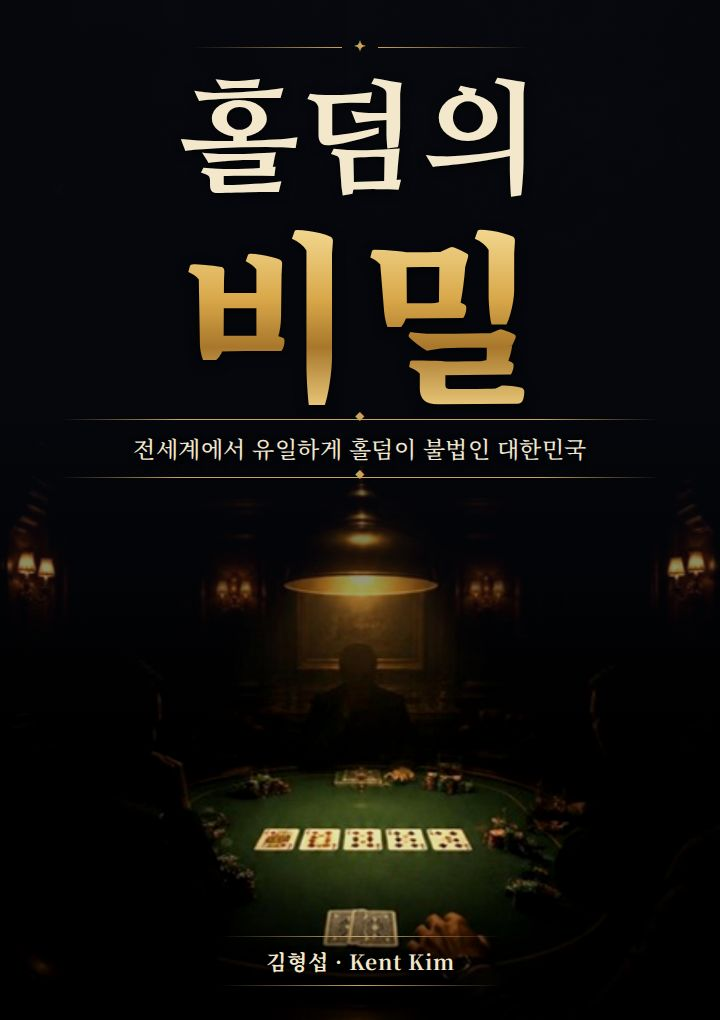
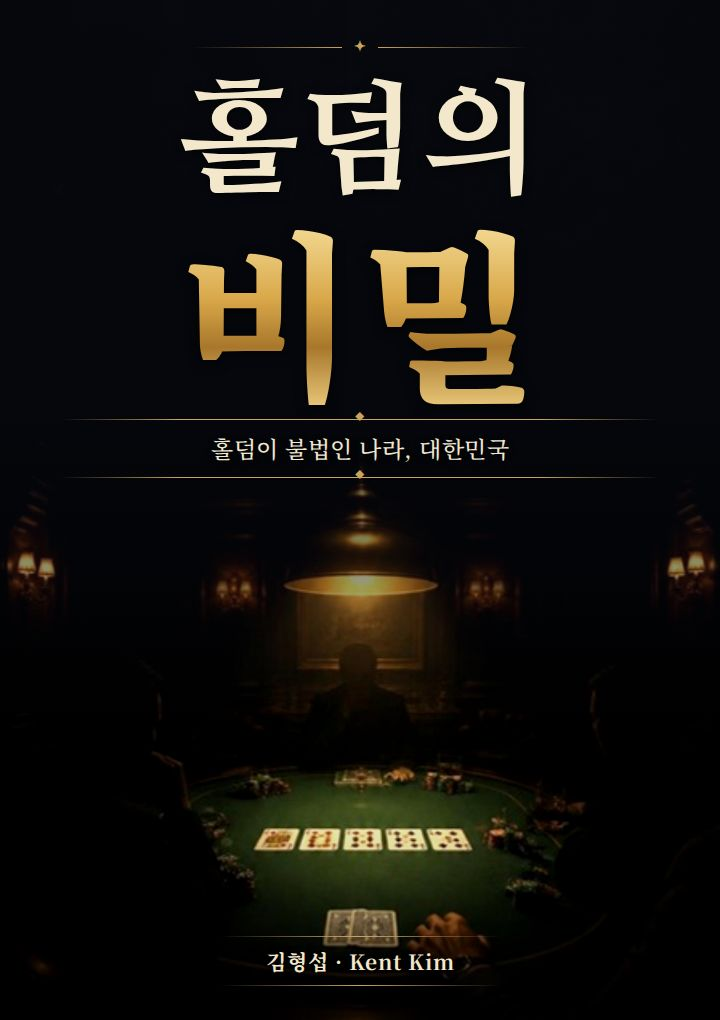
Live vote ranking and cover viewer for the secret series
Votes are stored in Supabase (kentclass schema) and the grid sorts by
popularity with TOP 1-5 badges. Tapping a cover opens a large viewer
with its own vote button. Swaps 부동산/아파트 for 온리팬스 and adds
AI로 웹 만드는 비밀; new 홀덤 subtitle.

Claude-Session: https://claude.ai/code/session_01Siq2fahSSAbSdJF6HecZzm

Changed region(s): [[0.1833, 0.4255, 0.825, 0.4559]]

diff --git a/app.js b/app.js
@@ -34,7 +34,6 @@ const SECRET_CATS = {money:"돈·투자", world:"글로벌", digital:"AI·디지
 const SECRETS = [
 {"n": 1, "cat": "money", "t": "대한민국 부자의 비밀", "img": "covers/rich.jpg", "ct": "대한민국 부자의 비밀", "sub": "부자들은 돈을 어떻게 다르게 쓰는가"},
 {"n": 2, "cat": "money", "t": "은행의 비밀", "img": "covers/bank.jpg", "ct": "대한민국 은행의 비밀", "sub": "은행의 역사와 사건으로 읽는 돈과 책임"},
-{"n": 3, "cat": "money", "t": "부동산의 비밀", "img": "covers/realestate.jpg", "ct": "부동산의 비밀", "sub": "땅과 집값을 움직이는 보이지 않는 손"},
 {"n": 5, "cat": "law", "t": "세무조사의 비밀", "img": "covers/taxaudit.jpg", "ct": "세무조사의 비밀", "sub": "조사관이 문을 두드리기 전에 알아야 할 것"},
 {"n": 6, "cat": "law", "t": "증여와 상속의 비밀", "img": "covers/inheritance.jpg", "ct": "대한민국 상속의 비밀", "sub": "재산을 남기는 선택, 가족의 미래를 바꾸다"},
 {"n": 7, "cat": "law", "t": "이혼과 재산분할의 비밀", "img": "covers/divorce.jpg", "ct": "이혼과 재산분할의 비밀", "sub": "헤어질 때 재산은 어떻게 나뉘는가"},
@@ -60,7 +59,6 @@ const SECRETS = [
 {"n": 30, "cat": "money", "t": "공매도의 비밀", "img": "covers/shortselling.jpg", "ct": "공매도의 비밀", "sub": "주가가 떨어질 때 돈을 버는 사람들"},
 {"n": 32, "cat": "world", "t": "미국 카지노 산업의 비밀", "img": "covers/uscasino.jpg", "ct": "미국 카지노 산업의 비밀", "sub": "라스베이거스는 어떻게 돈을 버는가"},
 {"n": 33, "cat": "money", "t": "로또의 비밀", "img": "covers/lotto.jpg", "ct": "로또의 비밀", "sub": "확률과 욕망, 그리고 당첨금의 행방"},
-{"n": 34, "cat": "money", "t": "대한민국 아파트의 비밀", "img": "covers/apartment.jpg", "ct": "대한민국 아파트의 비밀", "sub": "아파트 한 채에 걸린 인생"},
 {"n": 36, "cat": "digital", "t": "코인 거래소의 비밀", "img": "covers/exchange.jpg", "ct": "코인 거래소의 비밀", "sub": "거래소 대표가 직접 본 코인 시장의 안쪽"},
 {"n": 37, "cat": "money", "t": "대한민국 금융사기의 비밀", "img": "covers/fraud.jpg", "ct": "대한민국 금융사기의 비밀", "sub": "누가, 어떻게 속이는가"},
 {"n": 38, "cat": "money", "t": "금 투자의 비밀", "img": "covers/gold.jpg", "ct": "금 투자의 비밀", "sub": "가장 오래된 안전자산의 진실"},
@@ -106,9 +104,11 @@ const SECRETS = [
 {"n": 97, "cat": "digital", "t": "AI로 언리얼 게임 만드는 비밀", "img": "covers/unreal.jpg", "ct": "AI로 언리얼 게임 만드는 비밀", "sub": "영화 같은 3D 게임을 AI로 만드는 법"},
 {"n": 98, "cat": "money", "t": "대한민국 부동산의 비밀", "img": "covers/krrealestate.jpg", "ct": "대한민국 부동산의 비밀", "sub": "집값은 누가, 어떻게 움직이는가"},
 {"n": 99, "cat": "law", "t": "대한민국 세금의 비밀", "img": "covers/krtax.jpg", "ct": "대한민국 세금의 비밀", "sub": "아는 만큼 덜 내는 세금 구조"},
-{"n": 100, "cat": "power", "t": "홀덤의 비밀", "sub": "전세계에서 유일하게 홀덤이 불법인 대한민국", "img": "covers/holdem.jpg", "ct": "홀덤의 비밀"},
+{"n": 100, "cat": "power", "t": "홀덤의 비밀", "sub": "홀덤이 불법인 나라, 대한민국", "img": "covers/holdem.jpg", "ct": "홀덤의 비밀"},
 {"n": 101, "cat": "money", "t": "스테이블 코인의 비밀", "img": "covers/stablecoin.jpg", "ct": "스테이블 코인의 비밀", "sub": "흔들리지 않는 디지털 달러의 구조"},
-{"n": 102, "cat": "digital", "t": "AI로 앱 만드는 비밀", "img": "covers/aiapp.jpg", "ct": "AI로 앱 만드는 비밀", "sub": "코딩 몰라도 앱 50개를 만든 방법"}
+{"n": 102, "cat": "digital", "t": "AI로 앱 만드는 비밀", "img": "covers/aiapp.jpg", "ct": "AI로 앱 만드는 비밀", "sub": "코딩 몰라도 앱 50개를 만든 방법"},
+{"n": 103, "cat": "digital", "t": "온리팬스의 비밀", "sub": "크리에이터 이코노미의 시대", "img": "covers/onlyfans.jpg", "ct": "온리팬스의 비밀"},
+{"n": 104, "cat": "digital", "t": "AI로 웹 만드는 비밀", "sub": "코딩 없이 홈페이지를 완성하는 법", "img": "covers/aiweb.jpg", "ct": "AI로 웹 만드는 비밀"}
 ];
 const VOTE_MAX = 5;
 const CIRC = n => String.fromCharCode(n<=20 ? 0x245F+n : 0x323C+n);
@@ -259,6 +259,24 @@ const votes = new Set();
 try { JSON.parse(localStorage.getItem("kc-votes7")||"[]").forEach(n=>{ if(SECRETS.some(x=>x.n===n)) votes.add(n); }); } catch(e){}
 function saveVotes(){ try{ localStorage.setItem("kc-votes7", JSON.stringify([...votes])); }catch(e){} }
 const voteText = () => [...votes].sort((a,b)=>a-b).map(n=>SECRETS.find(x=>x.n===n).t).join(", ");
+// 투표 집계 (Supabase RPC). 실패해도 사이트는 그대로 동작합니다.
+const VOTE_API = "https://zsnreihgjuihbpvwvxdc.supabase.co/rest/v1/rpc/", VOTE_KEY = "sb_publishable_jQ2ZA72UQC_EBHSaDpBhZg_Kw7DuPew";
+const counts = new Map();
+let voter = null;
+try { voter = localStorage.getItem("kc-voter"); if(!voter){ voter = crypto.randomUUID(); localStorage.setItem("kc-voter", voter); } } catch(e){ voter = (crypto.randomUUID ? crypto.randomUUID() : null); }
+function rpc(name, body){ return fetch(VOTE_API+name, {method:"POST", headers:{"apikey":VOTE_KEY, "Content-Type":"application/json"}, body:JSON.stringify(body||{})}); }
+function sendVote(n, on){ if(voter) rpc("kc_vote", {p_voter:voter, p_topic:n, p_on:on}).catch(()=>{}); }
+async function loadCounts(){
+try { const r = await rpc("kc_vote_counts"); if(!r.ok) return; counts.clear(); for(const row of await r.json()) counts.set(row.topic, row.votes); renderSecrets(); } catch(e){}
+}
+(function syncOldVotes(){ try{ if(localStorage.getItem("kc-voter-synced")) return; votes.forEach(n=>sendVote(n,true)); localStorage.setItem("kc-voter-synced","1"); }catch(e){} })();
+function toggleVote(n){
+if(votes.has(n)){ votes.delete(n); counts.set(n, Math.max(0,(counts.get(n)||0)-1)); sendVote(n,false); }
+else { if(votes.size >= VOTE_MAX) return; votes.add(n); counts.set(n,(counts.get(n)||0)+1); sendVote(n,true); }
+saveVotes(); renderSecrets(); if(cvOpen!==null) renderViewer();
+}
+const ranked = () => [...SECRETS].sort((a,b)=>(counts.get(b.n)||0)-(counts.get(a.n)||0) || a.n-b.n);
+function rankOf(n){ if(!(counts.get(n)>0)) return 0; const r = ranked(); return r.findIndex(x=>x.n===n)+1; }
 function renderSecrets(){
 const f = document.getElementById("secretFilters"); f.innerHTML = "";
 for(const [k,label] of [["all","전체 "+SECRETS.length], ...Object.entries(SECRET_CATS).map(([k,v])=>[k, v+" "+SECRETS.filter(x=>x.cat===k).length])]){
@@ -270,21 +288,29 @@ f.appendChild(b);
 }
 const full = votes.size >= VOTE_MAX;
 const ey = document.getElementById("secretEyebrow"); if(ey) ey.textContent = `공개 예정 · 비밀 시리즈 후보 ${SECRETS.length}편`;
+const total = [...counts.values()].reduce((a,b)=>a+b,0);
+const head = document.getElementById("coversHead");
+if(head) head.innerHTML = total ? `<b>지금 인기 순위</b> 지금까지 ${total.toLocaleString("ko-KR")}표 · 표가 많은 순서로 보여 드립니다. 표지를 누르면 크게 보입니다.` : `<b>표지를 눌러 크게 보고 투표하세요</b> 듣고 싶은 주제를 최대 5개까지 고를 수 있습니다.`;
 const el = document.getElementById("secretList"); el.innerHTML = "";
-const shown = SECRETS.filter(x=>sFilter==="all" || x.cat===sFilter);
+const shown = ranked().filter(x=>sFilter==="all" || x.cat===sFilter);
 const cut = !sMore && shown.length > SECRET_PREVIEW;
+cvList = shown;
 for(const x of cut ? shown.slice(0, SECRET_PREVIEW) : shown){
-const on = votes.has(x.n);
-const b = document.createElement("button");
-b.type="button"; b.className="ctile"+(on?" on":"");
-b.setAttribute("aria-pressed", String(on));
-b.disabled = full && !on;
-b.innerHTML = (x.img ? `<img alt="" loading="lazy" width="360" height="510">` : `<span class="ft"></span>`) + `<span class="cb" aria-hidden="true">${on?"✓":"+"}</span>`;
-if(x.img) b.querySelector("img").src = x.img.replace("covers/","covers/sm/"); else b.querySelector(".ft").textContent = x.t;
-b.setAttribute("aria-label", (x.ct||x.t) + (x.sub ? " · "+x.sub : "") + (on ? " · 투표함" : ""));
-b.title = x.ct||x.t;
-b.addEventListener("click",()=>{ votes.has(x.n)?votes.delete(x.n):votes.add(x.n); saveVotes(); renderSecrets(); });
-el.appendChild(b);
+const on = votes.has(x.n), c = counts.get(x.n)||0, rk = rankOf(x.n);
+const t = document.createElement("div");
+t.className = "ctile"+(on?" on":"");
+t.innerHTML = `<button type="button" class="copen">${x.img ? `<img alt="" loading="lazy" width="360" height="510">` : `<span class="ft"></span>`}</button>`+
+(c ? `<span class="ccount${rk && rk<=5 ? " top" : ""}">${rk && rk<=5 ? `TOP ${rk} · ` : ""}${c.toLocaleString("ko-KR")}표</span>` : "")+
+`<button type="button" class="cb" aria-pressed="${on}">${on?"✓":"+"}</button>`;
+const open = t.querySelector(".copen");
+if(x.img) open.querySelector("img").src = x.img.replace("covers/","covers/sm/"); else open.querySelector(".ft").textContent = x.t;
+open.setAttribute("aria-label", (x.ct||x.t)+" 크게 보기");
+open.addEventListener("click",()=>openViewer(x.n));
+const cb = t.querySelector(".cb");
+cb.setAttribute("aria-label", (x.ct||x.t) + (on ? " 투표 취소" : " 투표하기"));
+cb.disabled = full && !on;
+cb.addEventListener("click",()=>toggleVote(x.n));
+el.appendChild(t);
 }
 const more = document.getElementById("secretMore");
 more.hidden = !cut;
@@ -294,11 +320,41 @@ document.getElementById("voteText").textContent = votes.size ? voteText() : "듣
 document.getElementById("voteSend").disabled = !votes.size;
 syncApply();
 }
+// 표지 크게 보기
+let cvList = [], cvOpen = null;
+const cvDlg = document.getElementById("coverViewer");
+function openViewer(n){ cvOpen = n; renderViewer(); if(!cvDlg.open) cvDlg.showModal(); }
+function stepViewer(d){ const i = cvList.findIndex(x=>x.n===cvOpen); if(i<0) return; cvOpen = cvList[(i+d+cvList.length)%cvList.length].n; renderViewer(); }
+function renderViewer(){
+const x = SECRETS.find(s=>s.n===cvOpen); if(!x) return;
+const on = votes.has(x.n), c = counts.get(x.n)||0, rk = rankOf(x.n), full = votes.size >= VOTE_MAX;
+const img = document.getElementById("cvImg");
+if(x.img){ img.src = x.img; img.alt = (x.ct||x.t)+" 표지"; img.hidden = false; } else img.hidden = true;
+document.getElementById("cvTitle").textContent = x.ct||x.t;
+document.getElementById("cvSub").textContent = x.sub||"";
+document.getElementById("cvMeta").textContent = [SECRET_CATS[x.cat], c ? `${c.toLocaleString("ko-KR")}표` : "아직 표 없음", rk && rk<=5 ? `인기 TOP ${rk}` : ""].filter(Boolean).join(" · ");
+const btn = document.getElementById("cvVote");
+btn.textContent = on ? "✓ 투표함 · 다시 누르면 취소" : (full ? "5개를 다 골랐어요" : "+ 이 주제에 투표");
+btn.disabled = full && !on;
+btn.classList.toggle("on", on);
+document.getElementById("cvLeft").textContent = `${votes.size} / ${VOTE_MAX}개 선택`;
+}
+document.getElementById("cvVote").addEventListener("click",()=>toggleVote(cvOpen));
+document.getElementById("cvPrev").addEventListener("click",()=>stepViewer(-1));
+document.getElementById("cvNext").addEventListener("click",()=>stepViewer(1));
+document.getElementById("cvClose").addEventListener("click",()=>cvDlg.close());
+cvDlg.addEventListener("click",e=>{ if(e.target===cvDlg) cvDlg.close(); });
+cvDlg.addEventListener("close",()=>{ cvOpen = null; });
+cvDlg.addEventListener("keydown",e=>{ if(e.key==="ArrowLeft") stepViewer(-1); if(e.key==="ArrowRight") stepViewer(1); });
+let cvX = null;
+cvDlg.addEventListener("touchstart",e=>{ cvX = e.touches[0].clientX; },{passive:true});
+cvDlg.addEventListener("touchend",e=>{ if(cvX===null) return; const dx = e.changedTouches[0].clientX-cvX; if(Math.abs(dx)>50) stepViewer(dx<0?1:-1); cvX = null; });
 document.getElementById("voteSend").addEventListener("click", ()=>{
 window.open(applyUrl(), "_blank", "noopener");
 document.getElementById("voteMsg").textContent = "신청서를 열었어요. 고른 주제가 '하고 싶은 말' 칸에 채워져 있어요.";
 });
 document.getElementById("secretMore").addEventListener("click",()=>{sMore=true; renderSecrets();});
+loadCounts(); setInterval(()=>{ if(!document.hidden) loadCounts(); }, 60000);
 function renderSeries(){
 const parts = [["s-talk", TALKS, "AI 특강", "지금 다시보기", "#courses"], ["s-live", LIVE, "직접 해본 것만 강의", "순서대로 공개 · 지금 신청", "#courses"], ["s-secret", SECRETS.length, "비밀 시리즈", "투표로 골라 제작", "#secrets"]];
 const total = parts.reduce((t,p)=>t+p[1],0);

diff --git a/index.html b/index.html
@@ -117,16 +117,33 @@ section{padding-block:56px 0;display:grid;gap:24px}
 .goal-track span{display:block;height:100%;background:var(--accent);border-radius:999px}
 .goal p{font-size:14px;color:var(--muted)}
 .cgrid{display:grid;grid-template-columns:repeat(7,1fr);gap:10px}
-.ctile{position:relative;display:block;padding:0;border:2px solid transparent;border-radius:10px;background:var(--surface);overflow:hidden;cursor:pointer;aspect-ratio:720/1020;transition:transform .15s,border-color .15s}
-.ctile:hover{transform:translateY(-2px)}
+.ctile{position:relative;border:2px solid transparent;border-radius:10px;background:var(--surface);overflow:hidden;aspect-ratio:720/1020;transition:transform .15s,border-color .15s}
+@media (hover:hover){.ctile:hover{transform:translateY(-2px)}}
+.ctile .copen{display:block;width:100%;height:100%;padding:0;border:0;background:none;cursor:zoom-in}
 .ctile img{width:100%;height:100%;object-fit:cover;display:block}
-.ctile .cb{position:absolute;right:6px;bottom:6px;width:26px;height:26px;border-radius:50%;background:rgba(10,12,18,.72);color:#fff;display:grid;place-items:center;font-size:15px;line-height:1;border:1px solid rgba(255,255,255,.35)}
+.ctile .cb{position:absolute;right:6px;bottom:6px;width:30px;height:30px;padding:0;border-radius:50%;background:rgba(10,12,18,.78);color:#fff;display:grid;place-items:center;font-size:16px;line-height:1;border:1px solid rgba(255,255,255,.4);cursor:pointer}
 .ctile.on{border-color:var(--accent)}.ctile.on .cb{background:var(--accent);color:var(--accent-ink);border-color:var(--accent);font-weight:700}
-.ctile:disabled{cursor:not-allowed;transform:none}.ctile:disabled .cb{opacity:.35}
+.ctile .cb:disabled{opacity:.35;cursor:not-allowed}
+.ctile .ccount{position:absolute;left:6px;bottom:9px;background:rgba(10,12,18,.8);color:#fff;font-size:11px;font-weight:700;padding:2px 8px;border-radius:999px;white-space:nowrap}.ctile .ccount.top{background:var(--tag);color:var(--tag-ink);font-weight:800}
 .ctile .ft{position:absolute;inset:0;display:grid;place-items:center;padding:10px;text-align:center;color:#f3e7cc;font-size:14px;font-weight:700;word-break:keep-all;background:linear-gradient(180deg,#0b0d14,#1a1d2a)}
+.cviewer{border:0;padding:0;background:transparent;max-width:min(92vw,980px);width:100%;color:var(--ink);overflow:visible}
+.cviewer::backdrop{background:rgba(4,6,10,.82)}
+.cviewer[open]{display:grid;grid-template-columns:minmax(0,1fr) minmax(0,.9fr);gap:22px;align-items:center}
+.cv-x{position:absolute;top:-6px;right:-6px;width:40px;height:40px;border-radius:50%;border:1px solid var(--line);background:var(--surface);color:var(--ink);font-size:18px;cursor:pointer;z-index:2}
+.cv-body{position:relative;display:flex;align-items:center;justify-content:center}
+.cv-body img{width:100%;max-height:82vh;height:auto;aspect-ratio:720/1020;object-fit:contain;border-radius:12px;box-shadow:0 20px 60px rgba(0,0,0,.6)}
+.cv-nav{position:absolute;top:50%;transform:translateY(-50%);width:42px;height:42px;border-radius:50%;border:1px solid rgba(255,255,255,.35);background:rgba(10,12,18,.7);color:#fff;font-size:26px;line-height:1;cursor:pointer}
+#cvPrev{left:8px}#cvNext{right:8px}
+.cv-info{background:var(--surface);border:1px solid var(--line);border-radius:14px;padding:22px}
+.cv-info h3{margin:0 0 6px;font-size:24px;word-break:keep-all}
+.cv-info p{margin:0 0 10px;color:var(--muted);word-break:keep-all}
+.cv-info .cv-meta{font-family:var(--mono);font-size:13px}
+.cv-info .btn{width:100%;margin-top:6px}.cv-info .btn.on{background:var(--tag);color:var(--tag-ink)}
+.cv-left{display:block;margin-top:8px;font-size:13px;color:var(--muted);text-align:center}
+@media (max-width:760px){.cviewer[open]{grid-template-columns:1fr;gap:12px}.cv-body img{max-height:58vh;width:auto;max-width:100%}.cv-info{padding:16px}.cv-info h3{font-size:20px}.cv-x{top:-14px;right:0}}
 @media (max-width:1000px){.cgrid{grid-template-columns:repeat(6,1fr)}}
 @media (max-width:860px){.cgrid{grid-template-columns:repeat(4,1fr)}}
-@media (max-width:620px){.cgrid{grid-template-columns:repeat(3,1fr);gap:8px}.ctile .cb{width:22px;height:22px;font-size:13px;right:4px;bottom:4px}}
+@media (max-width:620px){.cgrid{grid-template-columns:repeat(3,1fr);gap:8px}.ctile .cb{width:28px;height:28px;font-size:15px;right:4px;bottom:4px}.ctile .ccount{font-size:10px;padding:1px 6px;left:4px;bottom:9px}}
 .covers-head{margin:0 0 10px;color:var(--muted);font-size:14px}.covers-head b{color:var(--ink);margin-right:6px}
 .covers{display:grid;grid-auto-flow:column;grid-auto-columns:calc((100% - 56px)/4.4);gap:14px;margin-bottom:22px;overflow-x:auto;scroll-snap-type:x mandatory;padding-bottom:8px;scrollbar-width:thin}
 .covers .cover{scroll-snap-align:start}
@@ -284,9 +301,19 @@ footer{padding-block:32px 0;font-size:13px;color:var(--muted)}
 <p>우리가 매일 접하지만, 누구도 제대로 가르쳐주지 않았던 돈·권력·법률·종교·기술의 숨은 구조를 살펴봅니다. 1편 최소 90분 온라인 강의로 매달 6~7편씩 공개합니다.</p>
 <p><b style="color:var(--ink)">어떤 주제부터 만들까요?</b> 먼저 듣고 싶은 주제를 최대 5개 골라 신청서로 보내 주세요. 표가 많은 주제부터 만들고, 표가 적은 주제는 만들지 않거나 다른 주제로 바꿀 수 있습니다.</p></div>
 <div class="filters" role="group" aria-label="비밀 시리즈 분야 필터" id="secretFilters"></div>
-<p class="covers-head"><b>표지를 눌러 투표하세요</b> 듣고 싶은 주제를 최대 5개까지 고를 수 있습니다.</p>
+<p class="covers-head" id="coversHead"><b>표지를 눌러 크게 보고 투표하세요</b> 듣고 싶은 주제를 최대 5개까지 고를 수 있습니다.</p>
 <div class="cgrid" id="secretList"></div>
 <button class="btn btn-ghost more-btn" type="button" id="secretMore" hidden></button>
+<dialog class="cviewer" id="coverViewer" aria-label="표지 크게 보기">
+<button type="button" class="cv-x" id="cvClose" aria-label="닫기">✕</button>
+<div class="cv-body">
+<button type="button" class="cv-nav" id="cvPrev" aria-label="이전 표지">‹</button>
+<img id="cvImg" alt="" width="720" height="1020">
+<button type="button" class="cv-nav" id="cvNext" aria-label="다음 표지">›</button>
+</div>
+<div class="cv-info"><h3 id="cvTitle"></h3><p id="cvSub"></p><p class="cv-meta" id="cvMeta"></p>
+<button type="button" class="btn btn-primary" id="cvVote"></button><span class="cv-left" id="cvLeft"></span></div>
+</dialog>
 <div class="vote">
 <div class="vote-info"><b id="voteCount"></b><span id="voteText"></span><span id="voteMsg" role="status"></span></div>
 <button class="btn btn-primary" type="button" id="voteSend">골라서 신청서 열기</button>
